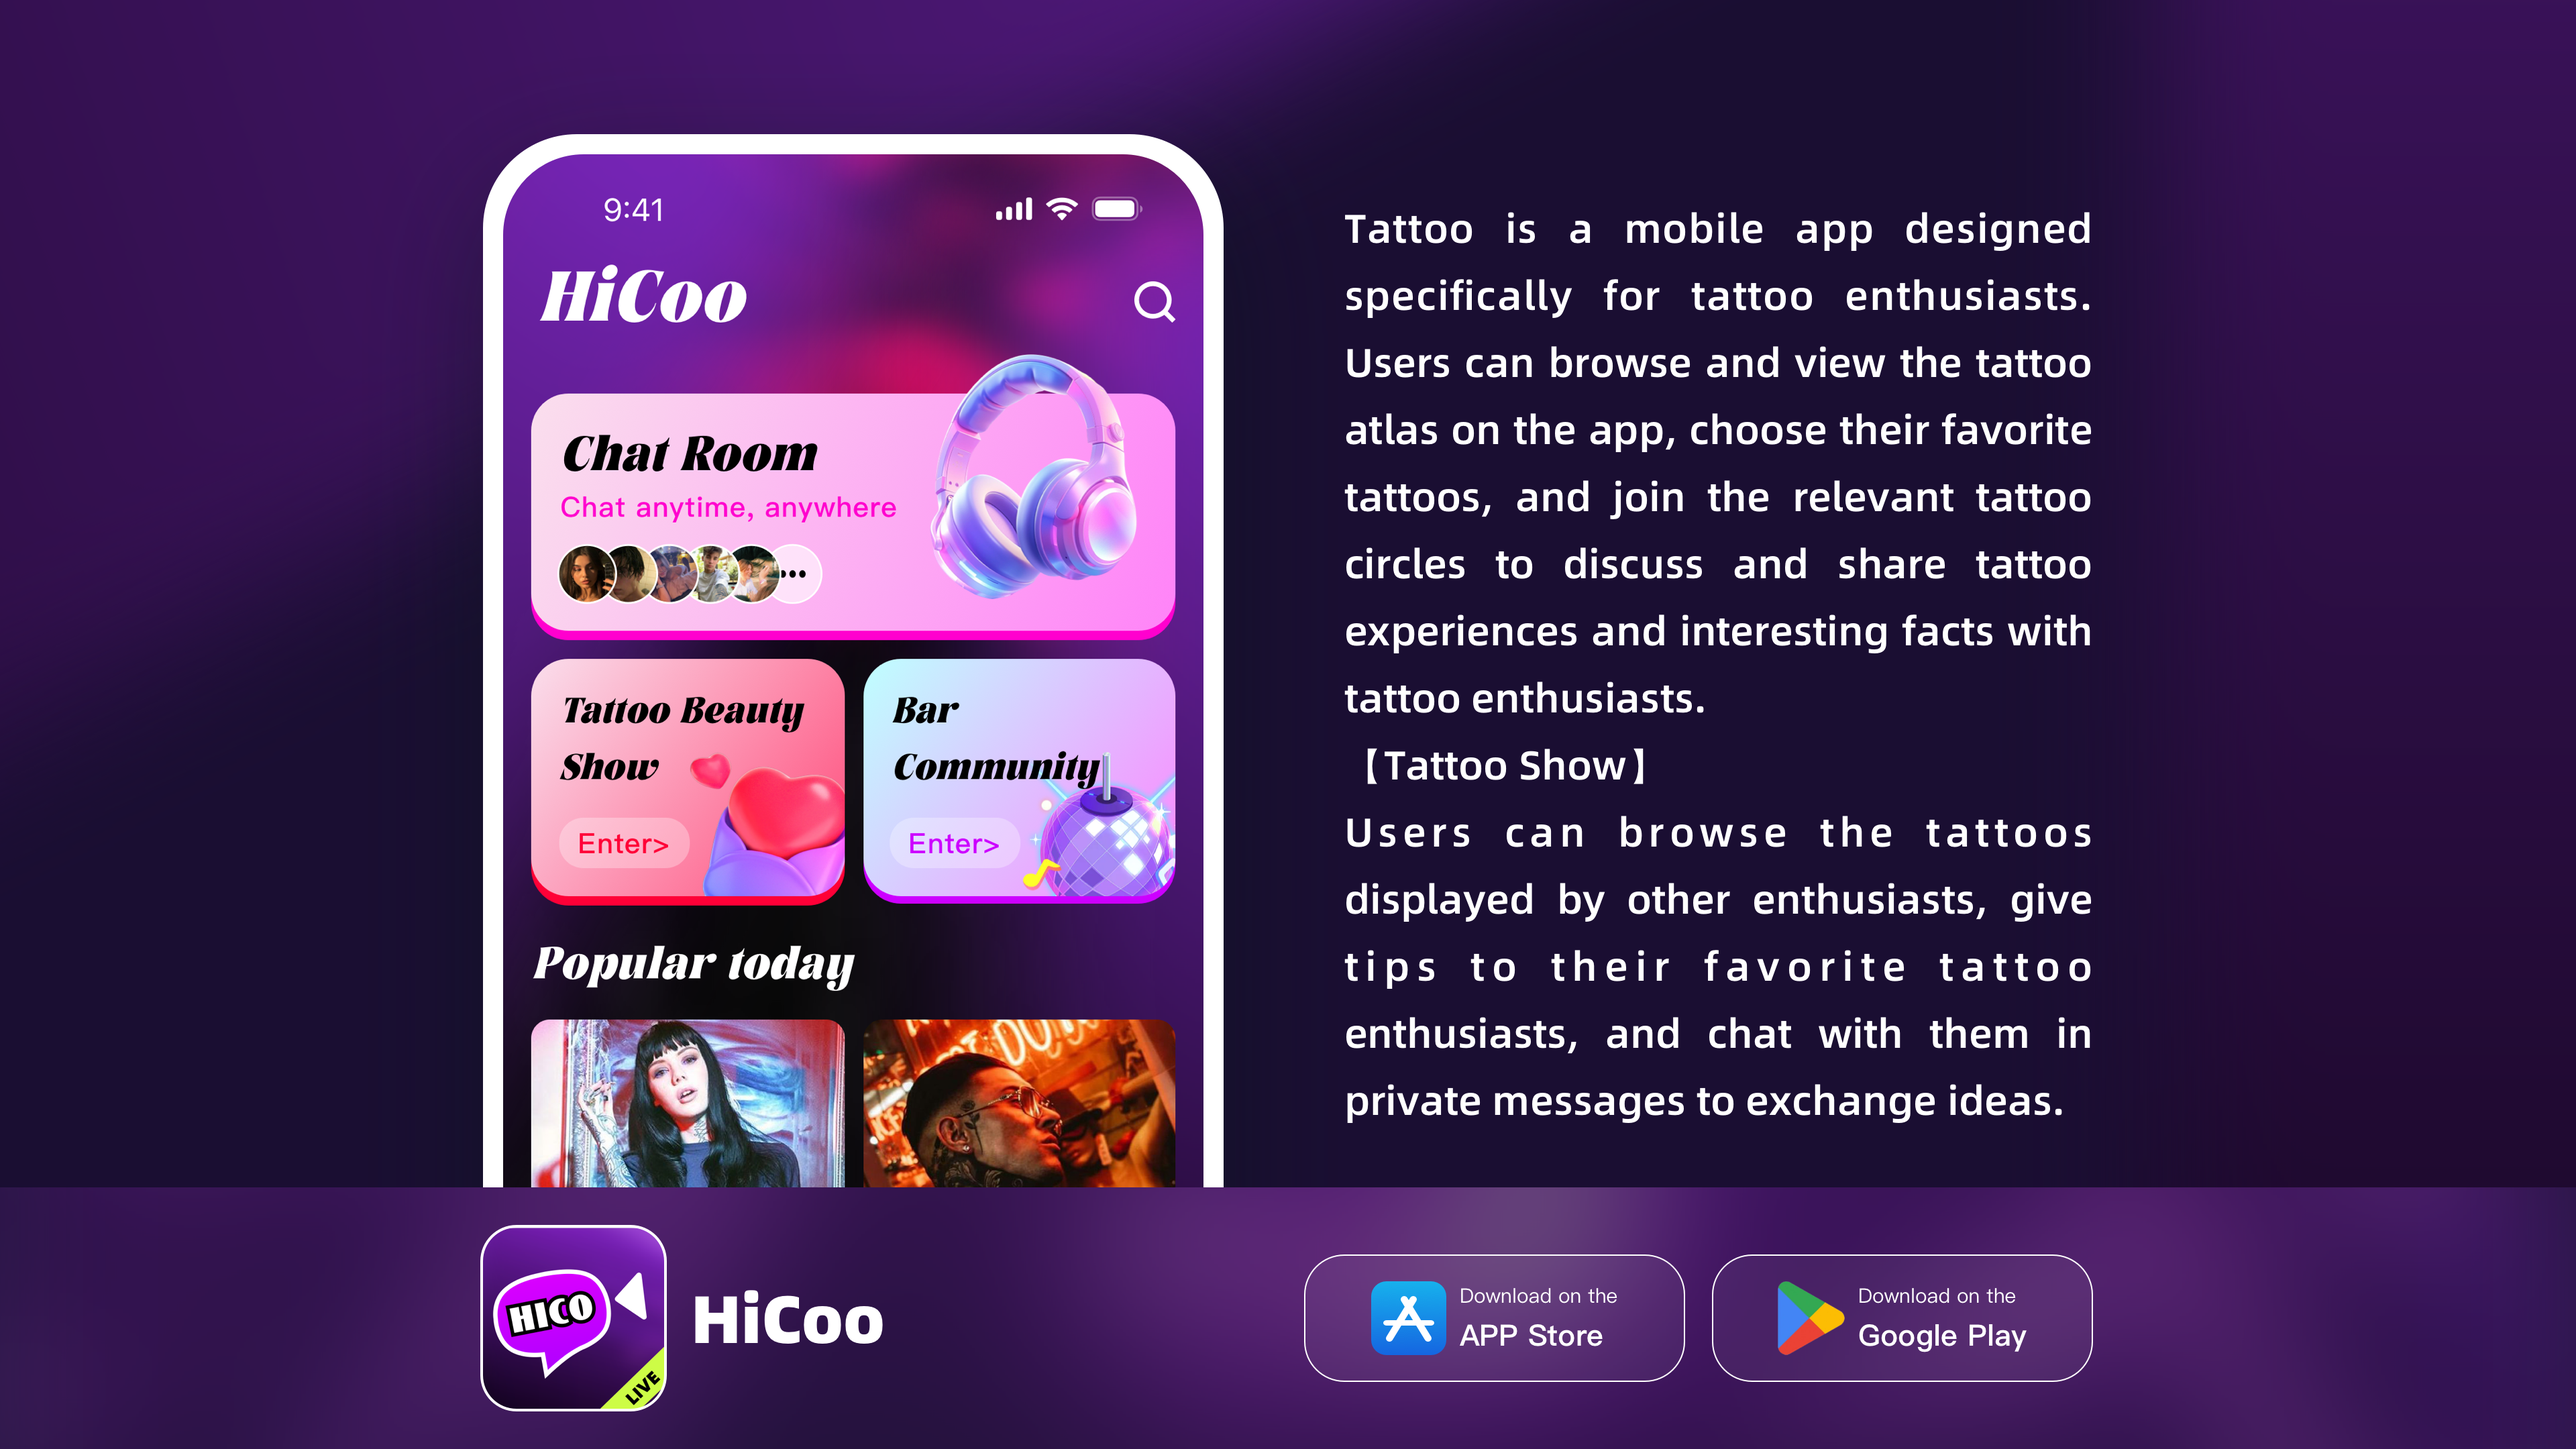
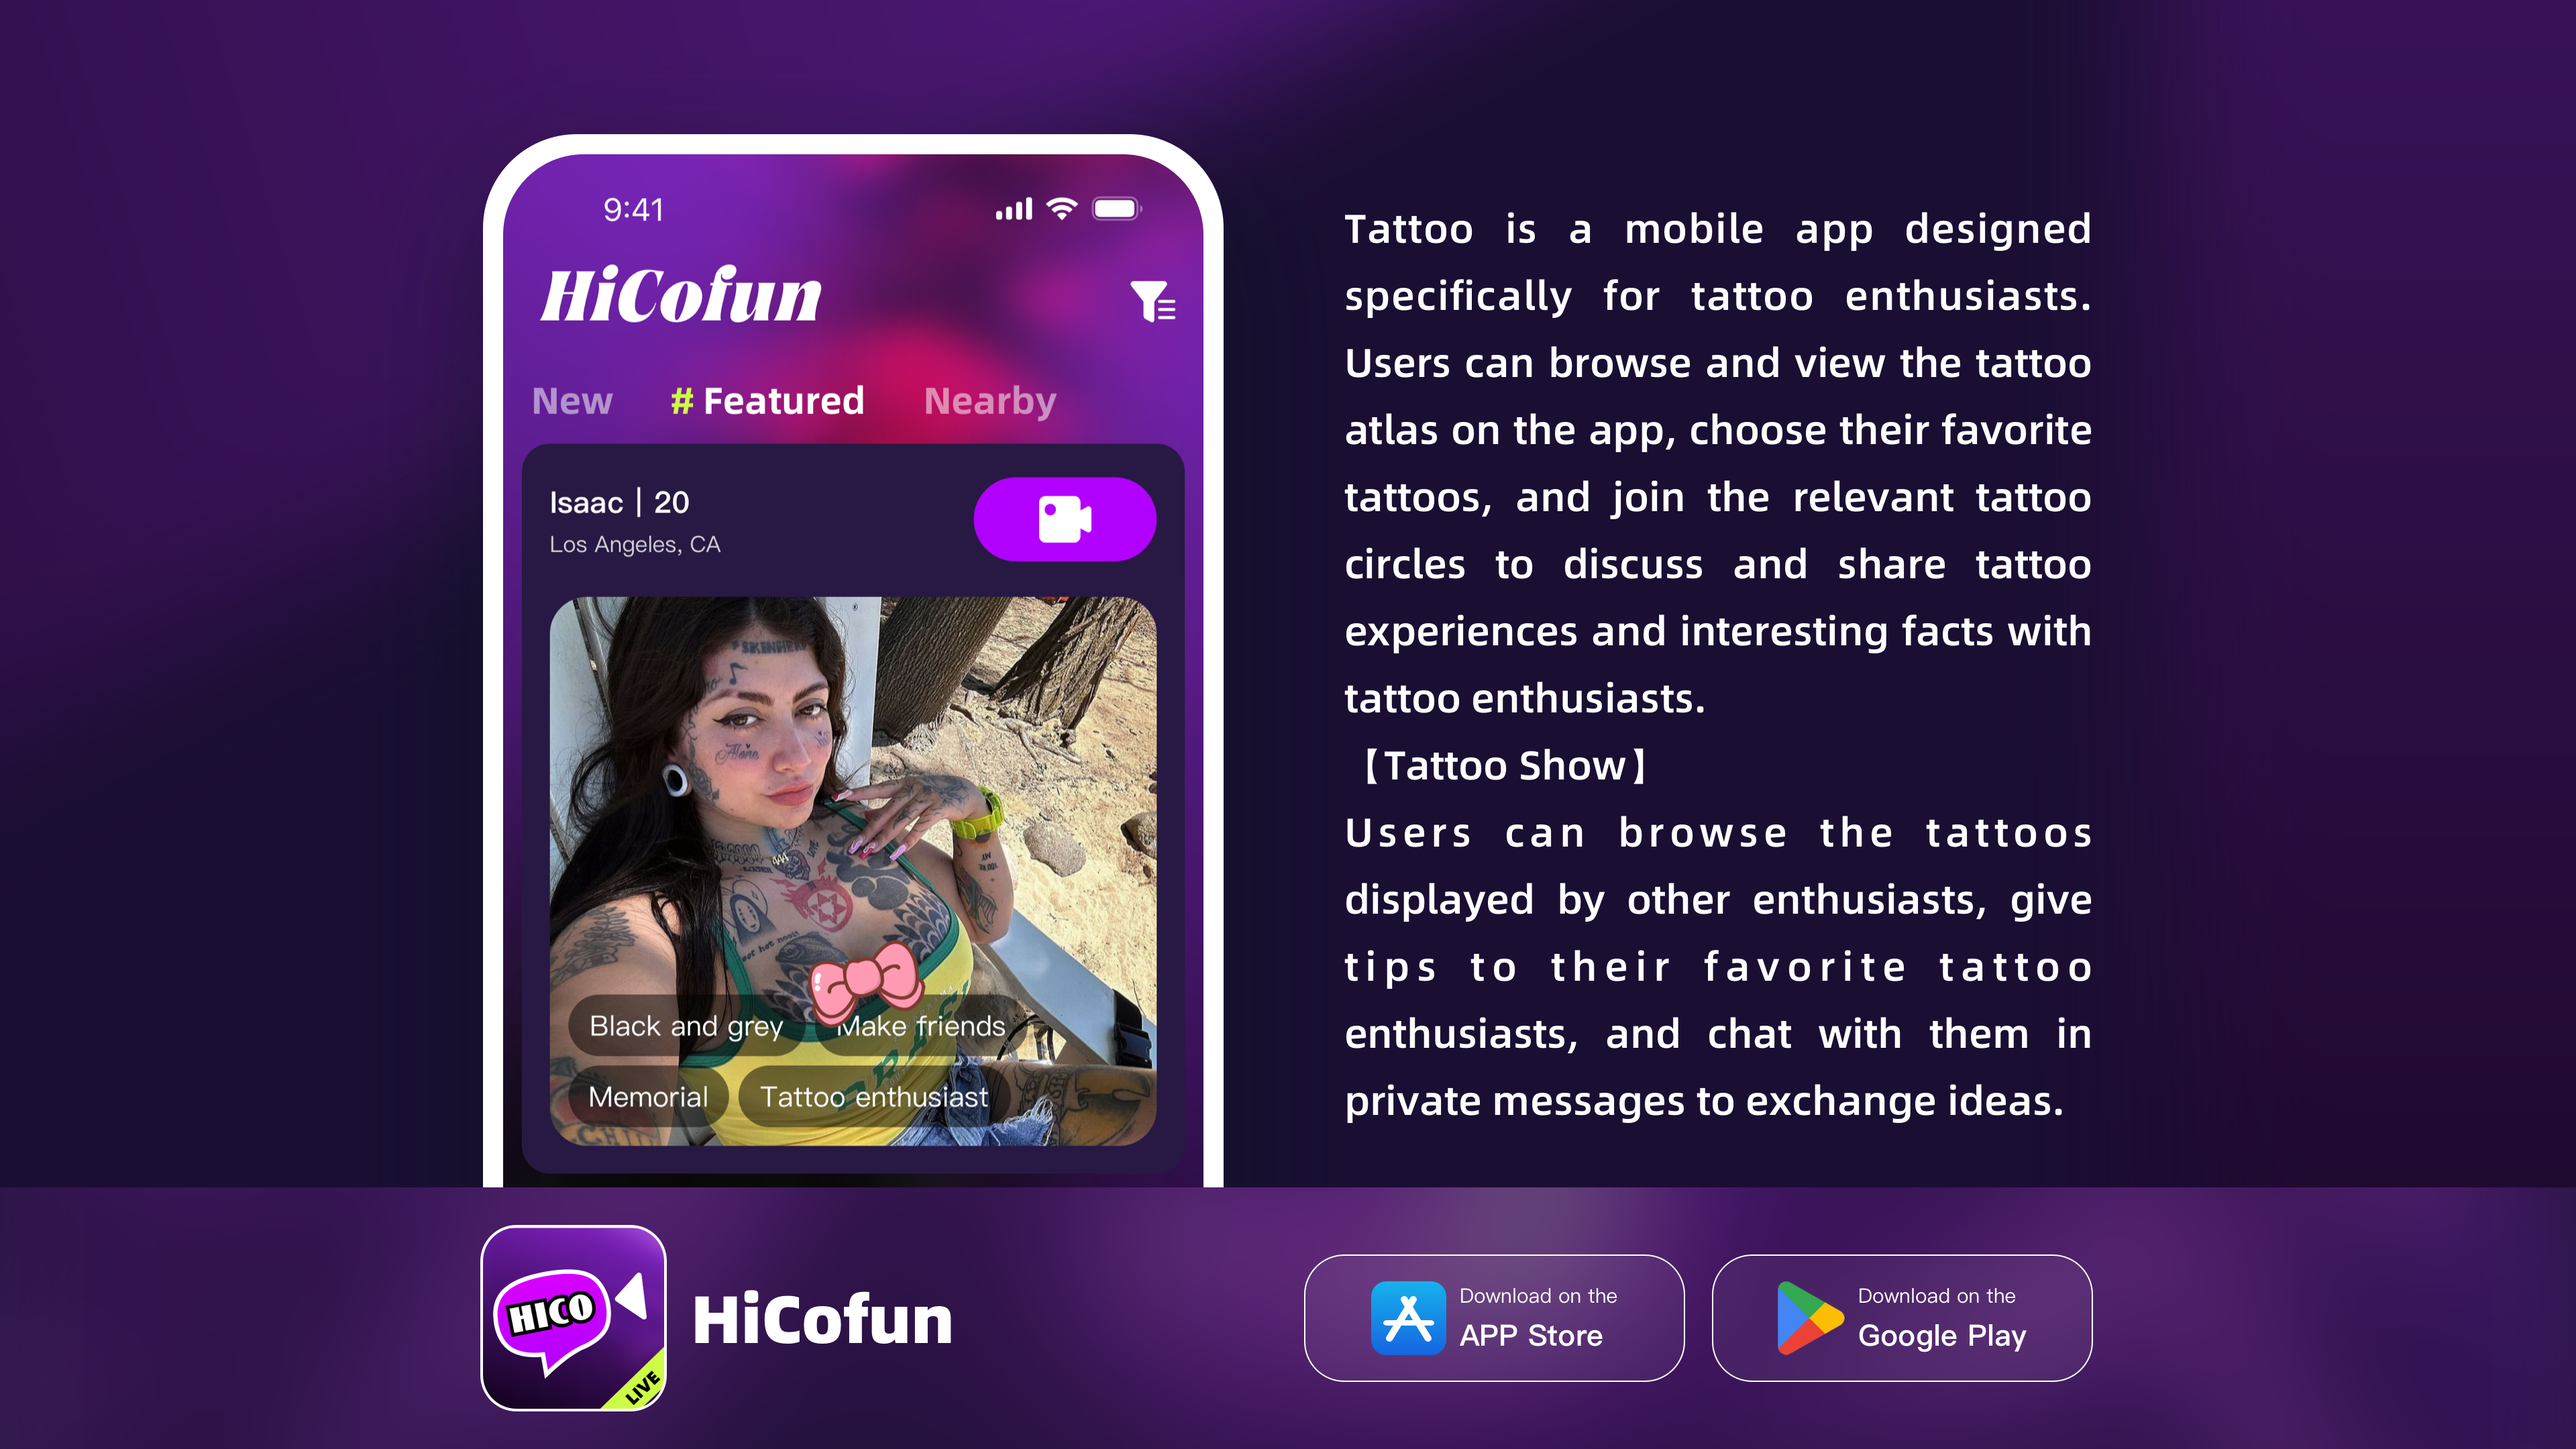
hicofun
hicofun

Changed region(s): [[0.1875, 0.1861, 0.4688, 0.8375], [0.3125, 0.8995, 0.375, 0.9306], [0.4375, 0.1861, 0.4688, 0.2171]]

diff --git a/index.html b/index.html
@@ -4,7 +4,7 @@
   <meta charset="UTF-8">
   <meta name="viewport" content="width=device-width, initial-scale=1.0">
   <link rel="icon" href="/favicon.svg" type="image/svg+xml">
-  <title>HiCoo</title>
+  <title>HiCofun</title>
   <meta name="description" content="Opinionated Vite Starter Template">
 </head>
 <body class="font-sans">

diff --git a/src/pages/privacy.vue b/src/pages/privacy.vue
@@ -2,7 +2,7 @@
 defineOptions({
   name: 'IndexPage',
 })
-const appName = 'HiCoo'
+const appName = 'HiCofun'
 </script>
 
 <template>

diff --git a/src/pages/users.vue b/src/pages/users.vue
@@ -2,7 +2,7 @@
 defineOptions({
   name: 'IndexPage',
 })
-const appName = 'HiCoo'
+const appName = 'HiCofun'
 </script>
 
 <template>
